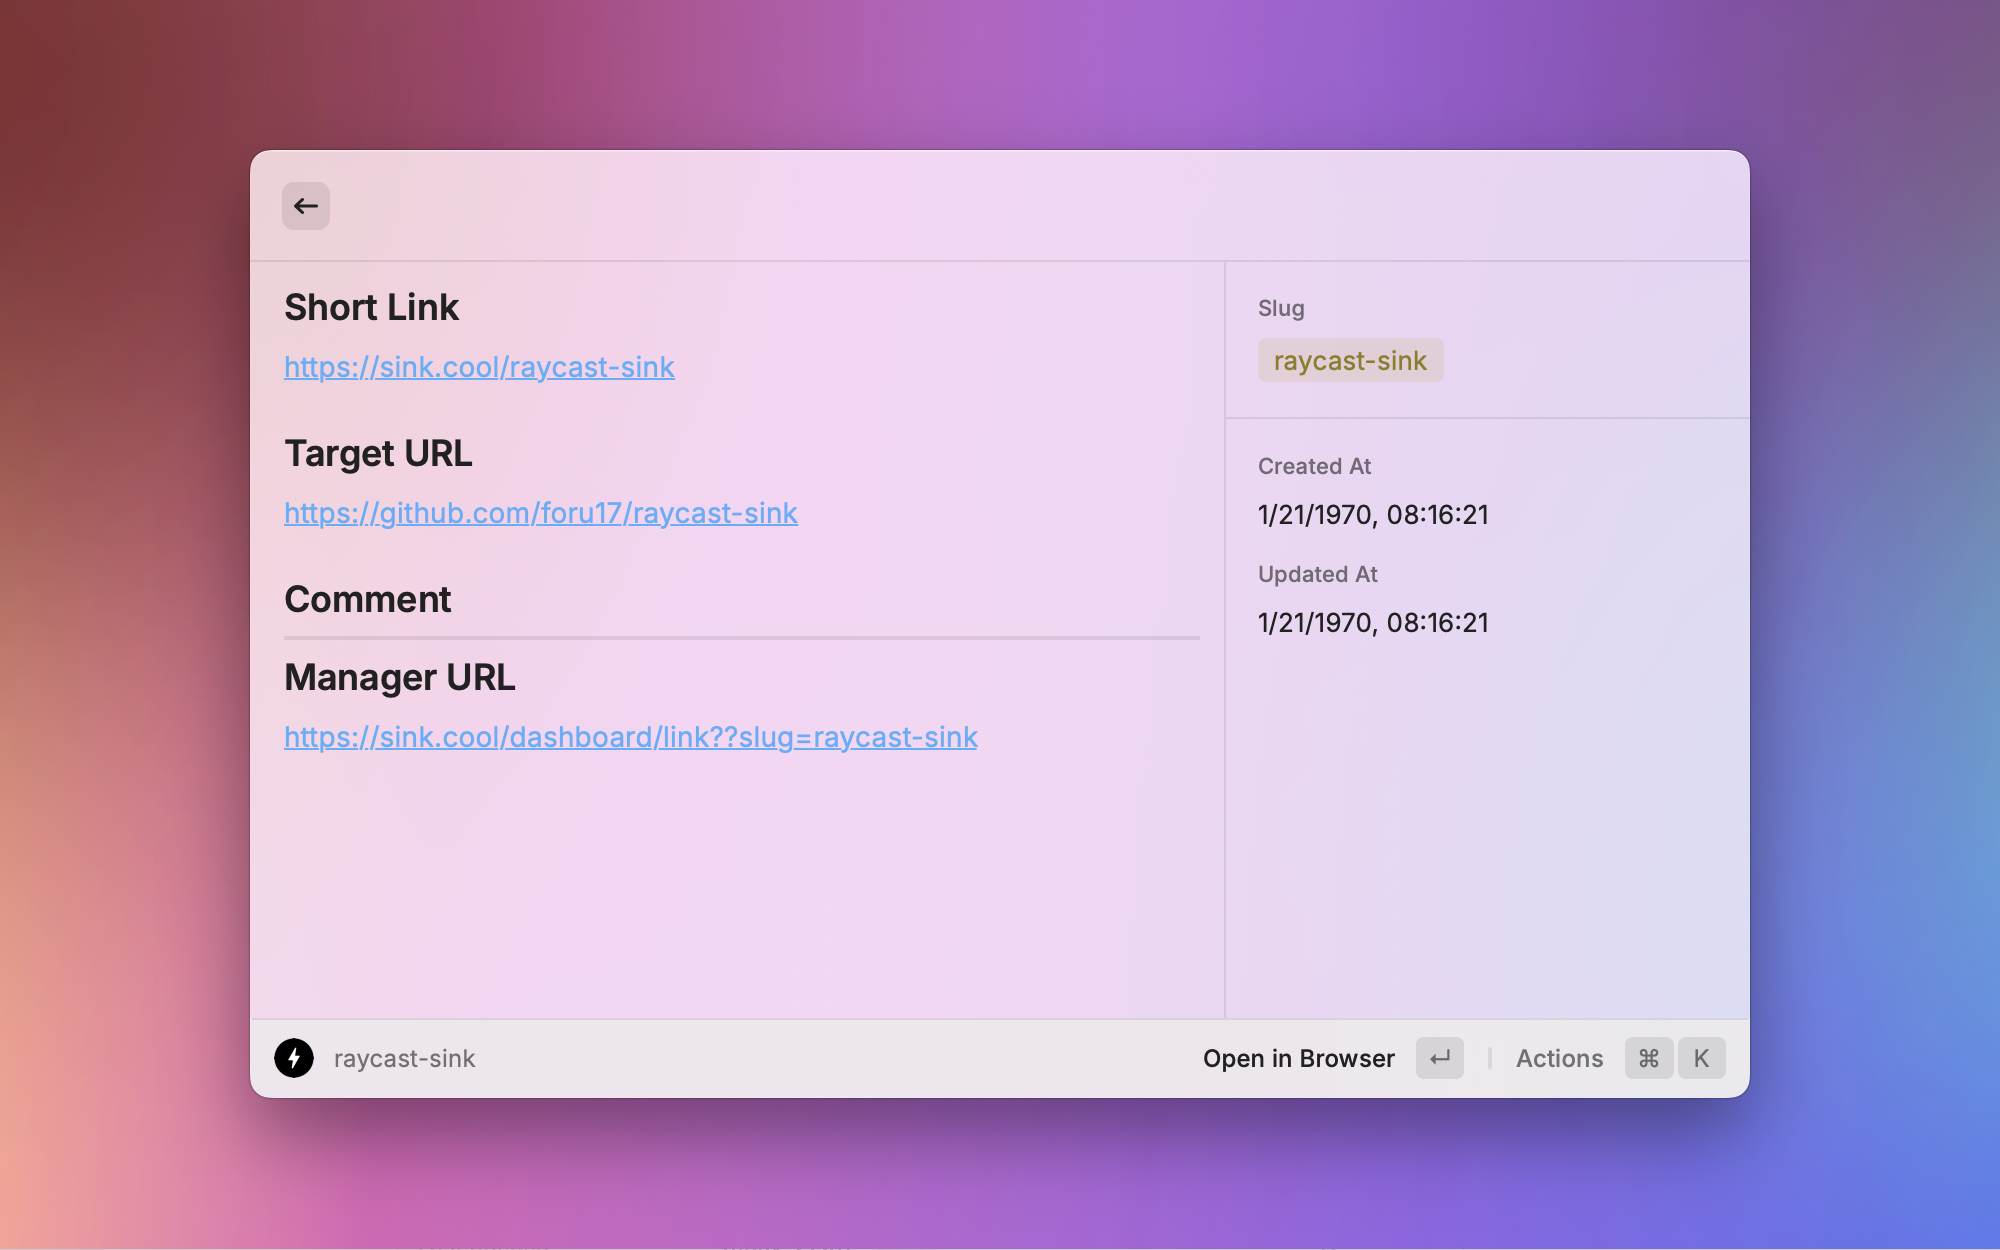
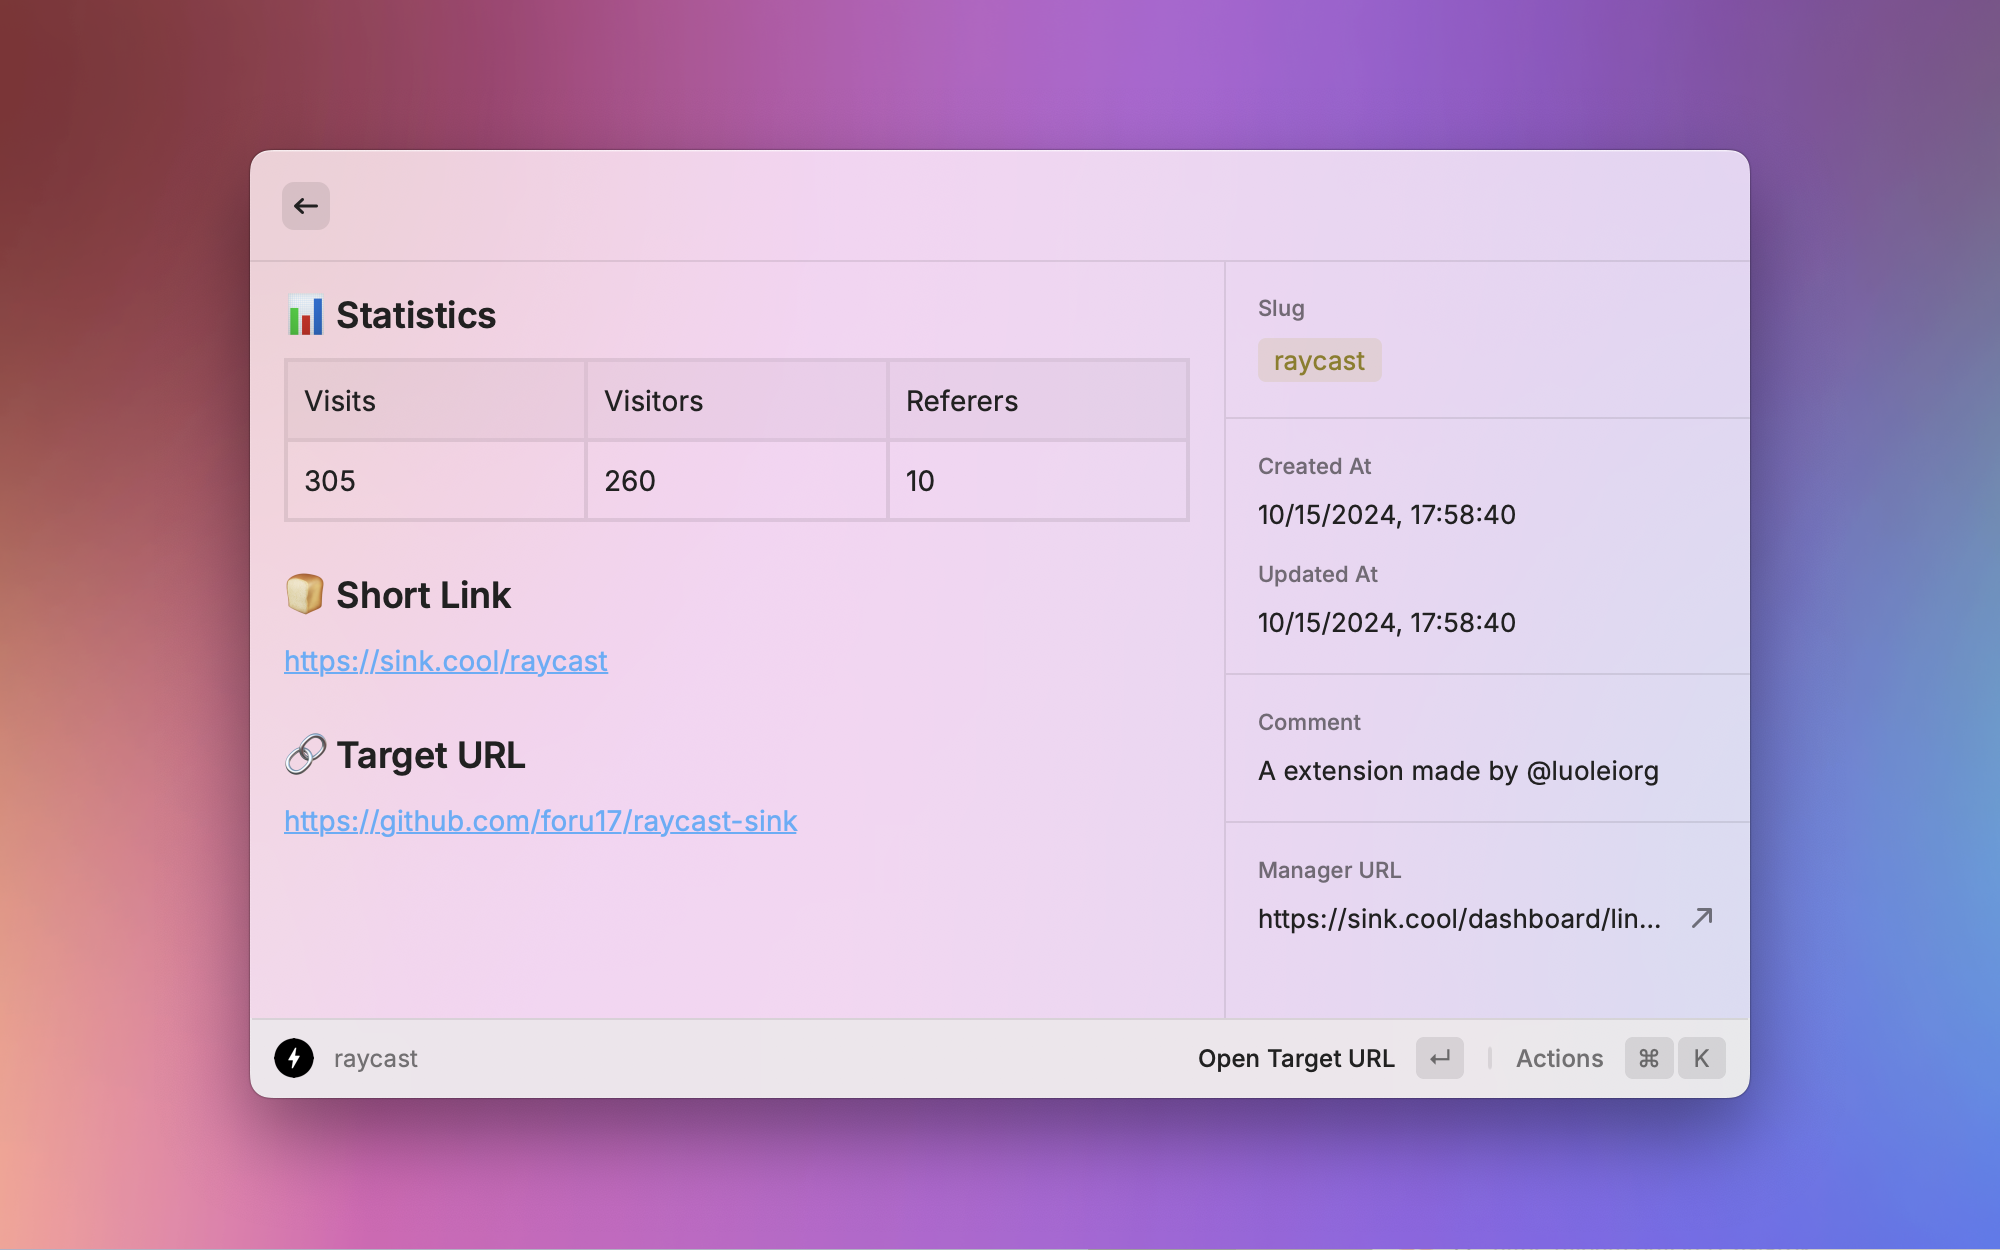
feat:Added statistics to the detail view

diff --git a/src/components/LinkDetail.tsx b/src/components/LinkDetail.tsx
@@ -5,12 +5,23 @@ import { deleteLink } from "../utils/api";
 import { EditLinkView } from "./EditLinkView";
 import { useConfig } from "../hooks/useConfig";
 import { SLUG_LABEL_COLOR } from "../constants";
-import { queryLink } from "../utils/api";
-import { useState } from "react";
+import { queryLink, statsCounter } from "../utils/api";
+import { useState, useEffect } from "react";
 
 interface LinkDetailProps {
   link: Link;
   onRefresh: () => void;
+}
+
+interface StatsCounter {
+  meta: Array<{ name: string; type: string }>;
+  data: Array<{
+    visits: string;
+    visitors: string;
+    referers: string;
+  }>;
+  rows: number;
+  rows_before_limit_at_least: number;
 }
 
 export function LinkDetail({ link: initialLink, onRefresh }: LinkDetailProps) {
@@ -18,9 +29,31 @@ export function LinkDetail({ link: initialLink, onRefresh }: LinkDetailProps) {
   const { t } = useTranslation();
   const { config } = useConfig();
   const [link, setLink] = useState(initialLink);
+  const [stats, setStats] = useState<StatsCounter | null>(null);
+  const [isLoading, setIsLoading] = useState(true);
 
-  const managerUrl = `${config?.host}/dashboard/link??slug=${link.slug}`;
+  const managerUrl = `${config?.host}/dashboard/link?slug=${link.slug}`;
   const shortLink = `${config?.host}/${link.slug}`;
+
+  useEffect(() => {
+    const fetchStats = async () => {
+      setIsLoading(true);
+      const toast = await showToast({ title: t.loadingStats, style: Toast.Style.Animated });
+      try {
+        const data = await statsCounter(link.id);
+        setStats(data as StatsCounter);
+        toast.style = Toast.Style.Success;
+        toast.title = t.statsLoaded;
+      } catch (error) {
+        console.error("Failed to fetch stats:", error);
+        toast.style = Toast.Style.Failure;
+        toast.title = t.statsLoadFailed;
+      } finally {
+        setIsLoading(false);
+      }
+    };
+    fetchStats();
+  }, [link.id]);
 
   const handleEditSuccess = async () => {
     const toast = await showToast({ title: t.linkUpdating, style: Toast.Style.Animated });
@@ -54,19 +87,16 @@ export function LinkDetail({ link: initialLink, onRefresh }: LinkDetailProps) {
 
   const markdown = `
 
+## 📊 ${t.statistics}
+| ${t.visits} | ${t.visitors} | ${t.referers} |
+|------------|--------------|--------------|
+| ${isLoading ? "..." : stats?.data?.[0]?.visits || "0"} | ${isLoading ? "..." : stats?.data?.[0]?.visitors || "0"} | ${isLoading ? "..." : stats?.data?.[0]?.referers || "0"} |
+
 ## 🍞 ${t.shortLink}
 ${shortLink}
 
 ## 🔗 ${t.targetUrl}
 ${link.url}
-
-${link.comment ? `## 💬 ${t.comment}\n${link.comment || ""}` : ""}
-
-
----
-
-## 🎛 ${t.managerUrl}
-${managerUrl}
 
   `;
 
@@ -80,8 +110,18 @@ ${managerUrl}
             <Detail.Metadata.TagList.Item text={link.slug} color={SLUG_LABEL_COLOR} />
           </Detail.Metadata.TagList>
           <Detail.Metadata.Separator />
+
           <Detail.Metadata.Label title={t.createdAt} text={new Date(link.createdAt * 1000).toLocaleString()} />
           <Detail.Metadata.Label title={t.updatedAt} text={new Date(link.updatedAt * 1000).toLocaleString()} />
+          <Detail.Metadata.Separator />
+          {link.comment && (
+            <>
+              <Detail.Metadata.Label title={t.comment} text={link.comment} />
+              <Detail.Metadata.Separator />
+            </>
+          )}
+
+          <Detail.Metadata.Link title={`${t.managerUrl}`} target={managerUrl} text={managerUrl} />
         </Detail.Metadata>
       }
       actions={

diff --git a/src/utils/api.ts b/src/utils/api.ts
@@ -50,15 +50,8 @@ export async function fetchLinks(cursor?: string) {
   return fetchWithAuth(path);
 }
 
-export async function fetchLinkBySlug(slug: string) {
-  try {
-    return await fetchWithAuth(`/api/link/query?slug=${slug}`);
-  } catch (error) {
-    if (error instanceof Error && error.message.includes("404")) {
-      return null;
-    }
-    throw error;
-  }
+export async function queryLink(slug: string) {
+  return fetchWithAuth(`/api/link/query?slug=${slug}`);
 }
 
 export async function createLink(url: string, slug?: string, comment?: string) {
@@ -66,10 +59,6 @@ export async function createLink(url: string, slug?: string, comment?: string) {
     method: "POST",
     body: { url, slug, comment },
   });
-}
-
-export async function queryLink(slug: string) {
-  return fetchLinkBySlug(slug);
 }
 
 export async function deleteLink(slug: string): Promise<void> {
@@ -84,4 +73,8 @@ export async function editLink(slug: string, url: string, comment?: string) {
     method: "PUT",
     body: { slug, url, comment },
   });
+}
+
+export async function statsCounter(id: string) {
+  return fetchWithAuth(`/api/stats/counters?id=${id}`);
 }

diff --git a/src/i18n/index.ts b/src/i18n/index.ts
@@ -59,6 +59,13 @@ export const translations = {
     openManagerUrl: "Open Manager URL",
     openTargetUrl: "Open Target URL",
     error: "Error",
+    statistics: "Statistics",
+    visits: "Visits",
+    visitors: "Visitors",
+    referers: "Referers",
+    loadingStats: "Loading stats...",
+    statsLoaded: "Stats loaded",
+    statsLoadFailed: "Failed to load stats",
   },
   zh: {
     loadingLinks: "加载链接中...",
@@ -118,5 +125,12 @@ export const translations = {
     openManagerUrl: "打开管理链接",
     openTargetUrl: "打开目标 URL",
     error: "错误",
+    statistics: "统计",
+    visits: "访问量",
+    visitors: "访客数",
+    referers: "来源",
+    loadingStats: "加载统计中...",
+    statsLoaded: "统计加载成功",
+    statsLoadFailed: "统计加载失败",
   },
 };

diff --git a/CHANGELOG.md b/CHANGELOG.md
@@ -1,5 +1,10 @@
 # Raycast Sink Changelog
 
+## [Fix and New Features] - 2024-11-15
+
+- Added statistics to the detail view
+- Fixed the duplicate question mark issue when opening the manage URL page
+
 ## [Initial Release] - 2024-10-15
 
 - Integrated Sink API for short link management
